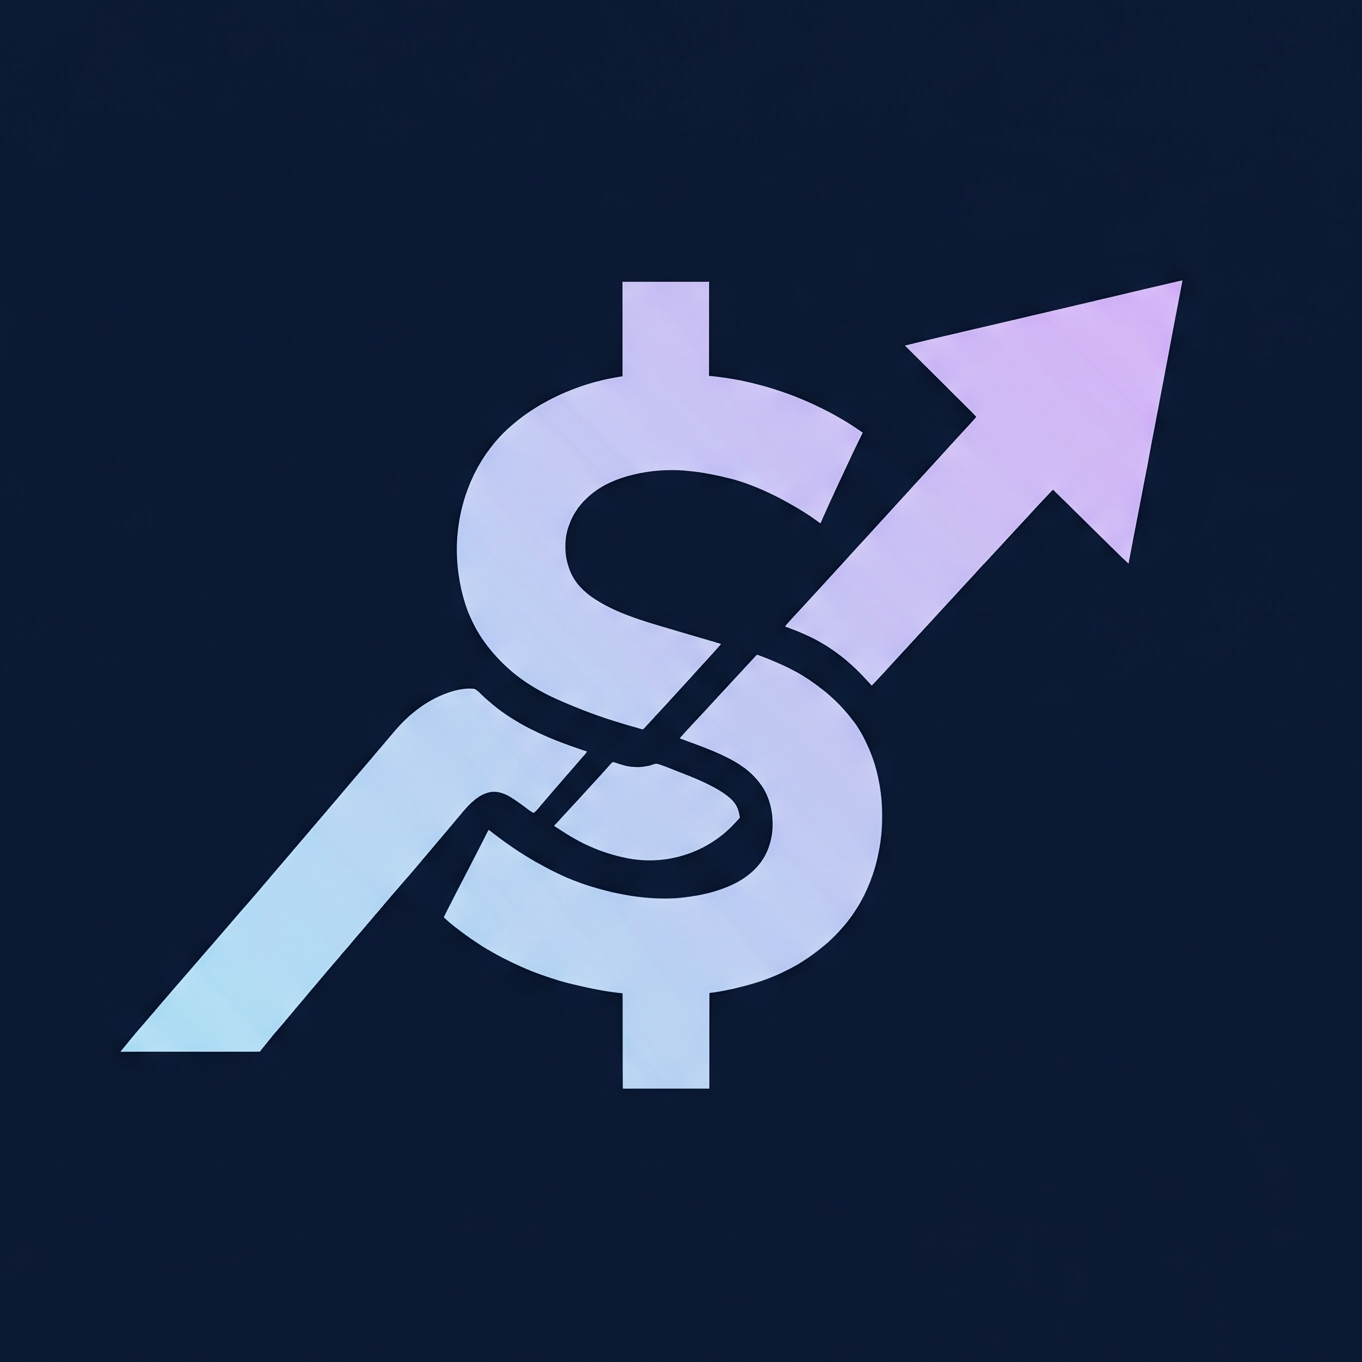
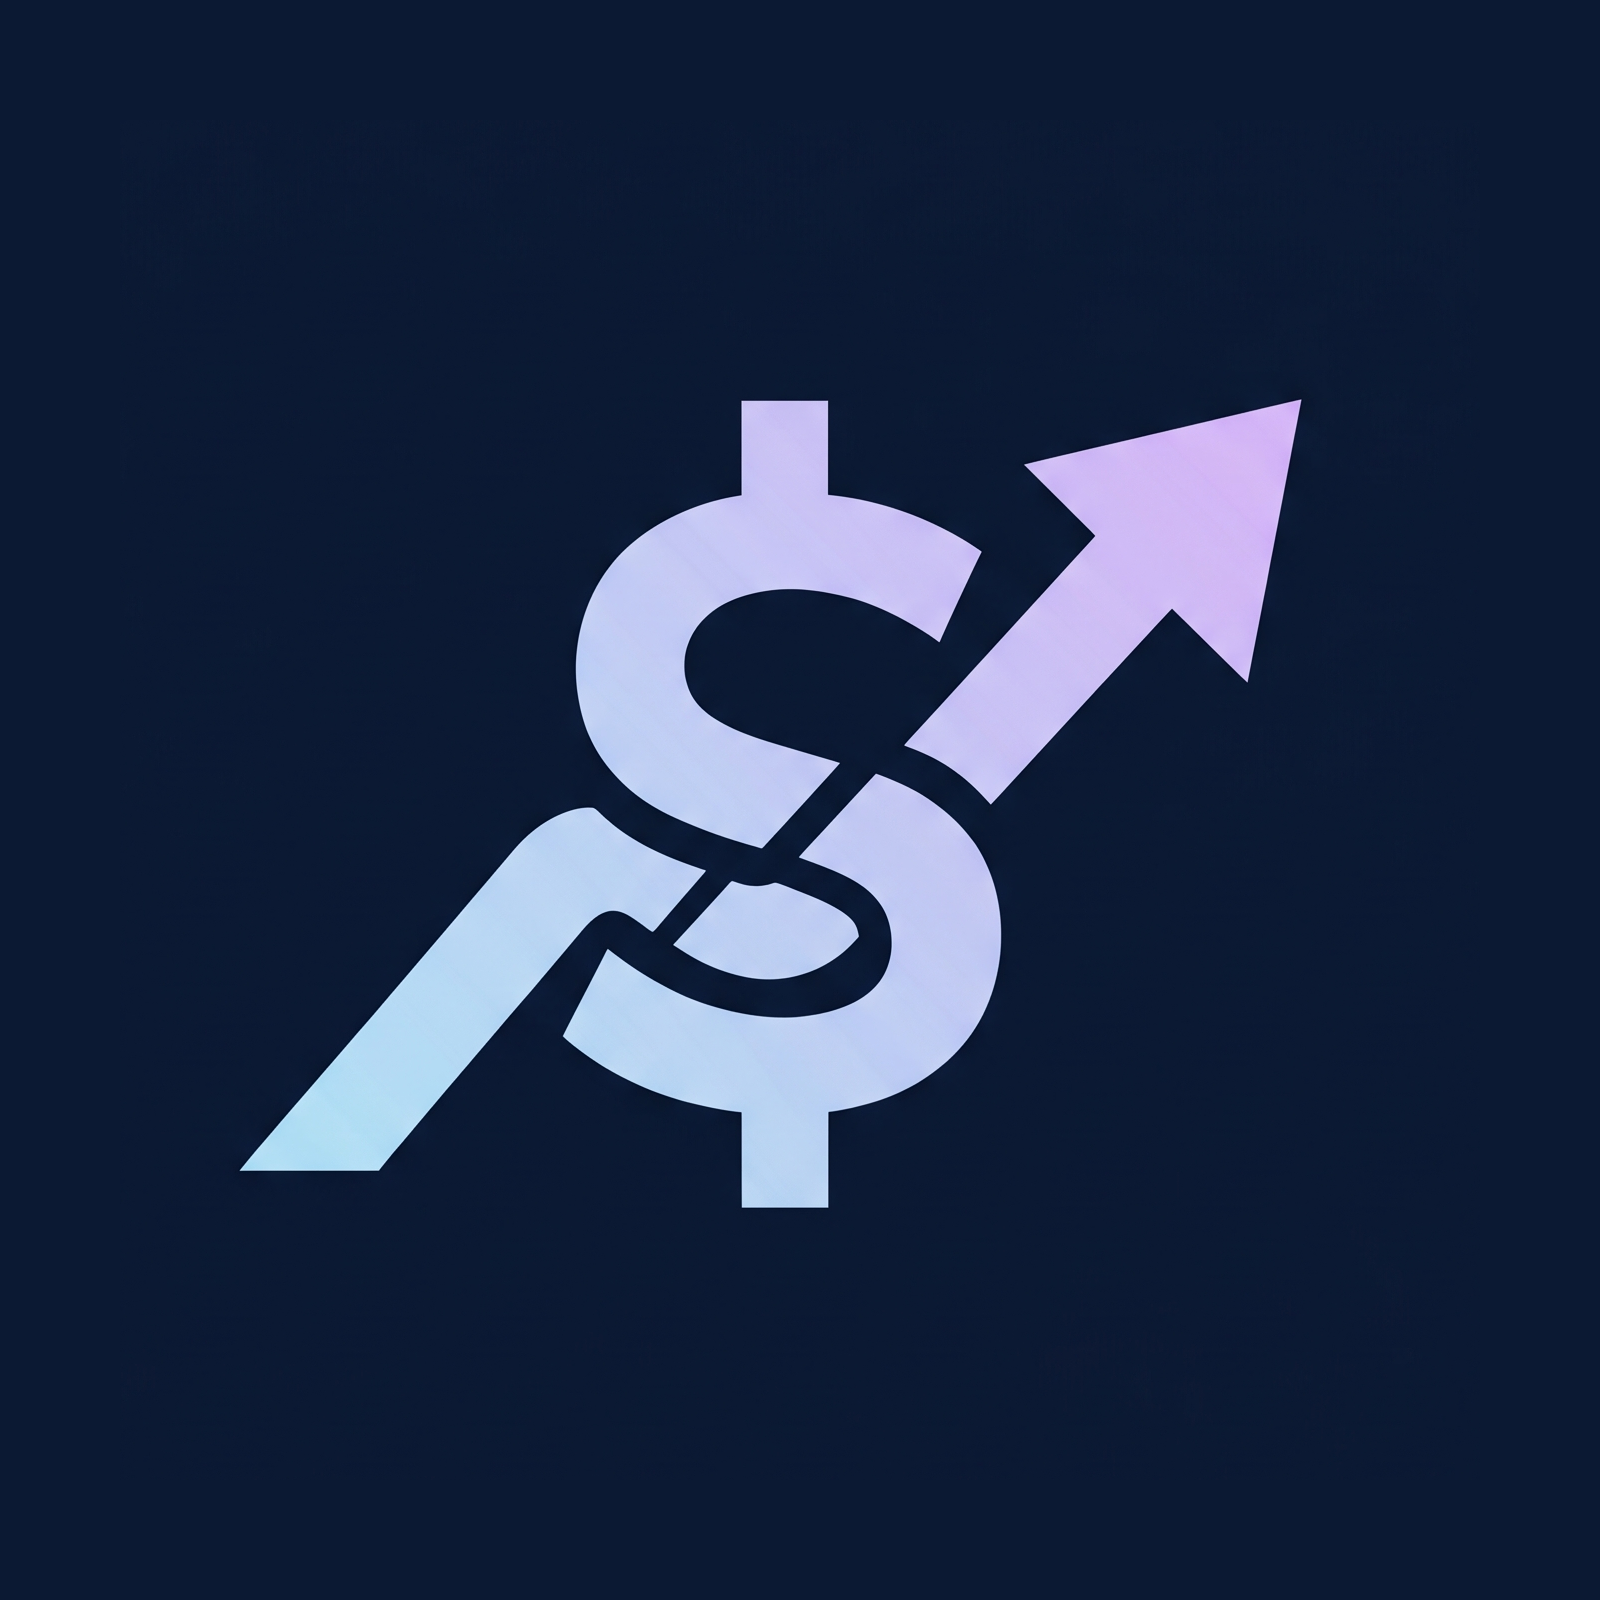
v1.2

Changed region(s): [[0.0925, 0.185, 0.8634, 0.8018], [0.4317, 0.4317, 0.4934, 0.4626], [0.2467, 0.6784, 0.2775, 0.7093]]

diff --git a/lib/features/home/presentation/pages/home_page.dart b/lib/features/home/presentation/pages/home_page.dart
@@ -1,4 +1,5 @@
 import 'package:flutter/material.dart';
+import 'package:flutter/services.dart';
 import '../../../../core/constants/app_colors.dart';
 import '../../../../core/services/language_service.dart';
 import '../../../../core/services/storage_service.dart';
@@ -93,6 +94,182 @@ class _HomePageState extends State<HomePage> {
     );
   }
 
+  void _showNotePreview(DateTime date, WorkDay? existing) {
+    // Haptik geri bildirim
+    HapticFeedback.mediumImpact();
+
+    final hasEntry = existing != null;
+    final hasNote = hasEntry && existing.note.trim().isNotEmpty;
+
+    // Tarih formatla
+    final dayNames = widget.lang.currentLang == 'tr'
+        ? [
+            'Pazartesi', 'Salı', 'Çarşamba', 'Perşembe',
+            'Cuma', 'Cumartesi', 'Pazar'
+          ]
+        : [
+            'Monday', 'Tuesday', 'Wednesday', 'Thursday',
+            'Friday', 'Saturday', 'Sunday'
+          ];
+    final dayName = dayNames[date.weekday - 1];
+    final monthName = widget.lang.monthName(date.month);
+    final formattedDate = '${date.day} $monthName, $dayName';
+
+    showDialog(
+      context: context,
+      barrierColor: Colors.black54,
+      builder: (ctx) => Dialog(
+        backgroundColor: Colors.transparent,
+        child: Container(
+          constraints: const BoxConstraints(maxWidth: 320),
+          decoration: BoxDecoration(
+            color: AppColors.card,
+            borderRadius: BorderRadius.circular(20),
+            border: Border.all(
+              color: hasNote
+                  ? AppColors.accentLight.withValues(alpha: 0.3)
+                  : AppColors.textHint.withValues(alpha: 0.3),
+              width: 1,
+            ),
+            boxShadow: [
+              BoxShadow(
+                color: Colors.black.withValues(alpha: 0.4),
+                blurRadius: 24,
+                offset: const Offset(0, 8),
+              ),
+            ],
+          ),
+          child: Column(
+            mainAxisSize: MainAxisSize.min,
+            children: [
+              // Üst başlık
+              Container(
+                width: double.infinity,
+                padding: const EdgeInsets.fromLTRB(20, 16, 20, 12),
+                decoration: BoxDecoration(
+                  color: AppColors.surface,
+                  borderRadius: const BorderRadius.vertical(
+                    top: Radius.circular(20),
+                  ),
+                ),
+                child: Row(
+                  children: [
+                    Icon(
+                      hasNote
+                          ? Icons.sticky_note_2_rounded
+                          : Icons.event_note_rounded,
+                      color: hasNote
+                          ? AppColors.accentLight
+                          : AppColors.textHint,
+                      size: 20,
+                    ),
+                    const SizedBox(width: 10),
+                    Expanded(
+                      child: Text(
+                        formattedDate,
+                        style: const TextStyle(
+                          fontSize: 14,
+                          fontWeight: FontWeight.w600,
+                          color: AppColors.textSecondary,
+                        ),
+                      ),
+                    ),
+                    // Kapatma butonu
+                    GestureDetector(
+                      onTap: () => Navigator.pop(ctx),
+                      child: Container(
+                        width: 28,
+                        height: 28,
+                        decoration: BoxDecoration(
+                          color: AppColors.card,
+                          borderRadius: BorderRadius.circular(8),
+                        ),
+                        child: const Icon(
+                          Icons.close_rounded,
+                          color: AppColors.textHint,
+                          size: 16,
+                        ),
+                      ),
+                    ),
+                  ],
+                ),
+              ),
+              // İçerik
+              Padding(
+                padding: const EdgeInsets.fromLTRB(20, 16, 20, 20),
+                child: hasNote
+                    ? Column(
+                        crossAxisAlignment: CrossAxisAlignment.start,
+                        children: [
+                          // Konum bilgisi
+                          Container(
+                            padding: const EdgeInsets.symmetric(
+                              horizontal: 10,
+                              vertical: 5,
+                            ),
+                            decoration: BoxDecoration(
+                              color: (existing.isCityCenter
+                                      ? AppColors.cityInner
+                                      : AppColors.cityOuter)
+                                  .withValues(alpha: 0.15),
+                              borderRadius: BorderRadius.circular(8),
+                            ),
+                            child: Text(
+                              existing.isCityCenter
+                                  ? widget.lang.tr('city_inner')
+                                  : widget.lang.tr('city_outer'),
+                              style: TextStyle(
+                                fontSize: 12,
+                                fontWeight: FontWeight.w600,
+                                color: existing.isCityCenter
+                                    ? AppColors.cityInner
+                                    : AppColors.cityOuter,
+                              ),
+                            ),
+                          ),
+                          const SizedBox(height: 12),
+                          // Not metni
+                          Text(
+                            existing.note.trim(),
+                            style: const TextStyle(
+                              fontSize: 15,
+                              height: 1.5,
+                              color: AppColors.textPrimary,
+                            ),
+                          ),
+                        ],
+                      )
+                    : Center(
+                        child: Column(
+                          children: [
+                            Icon(
+                              hasEntry
+                                  ? Icons.note_outlined
+                                  : Icons.event_busy_rounded,
+                              color: AppColors.textHint,
+                              size: 36,
+                            ),
+                            const SizedBox(height: 8),
+                            Text(
+                              hasEntry
+                                  ? widget.lang.tr('no_note')
+                                  : widget.lang.tr('no_entry'),
+                              style: const TextStyle(
+                                fontSize: 14,
+                                color: AppColors.textHint,
+                              ),
+                            ),
+                          ],
+                        ),
+                      ),
+              ),
+            ],
+          ),
+        ),
+      ),
+    );
+  }
+
   void _openSettings() async {
     await Navigator.of(context).push(
       MaterialPageRoute(
@@ -117,7 +294,7 @@ class _HomePageState extends State<HomePage> {
           // Ay navigasyonu — ortalanmış
           _buildMonthNavigator(),
           const SizedBox(height: 12),
-          // Takvim + Özet
+          // Takvim + Özet — sola/sağa kaydırarak ay değiştirme
           Expanded(
             child: _isLoading
                 ? const Center(
@@ -125,24 +302,38 @@ class _HomePageState extends State<HomePage> {
                       color: AppColors.accentLight,
                     ),
                   )
-                : SingleChildScrollView(
-                    child: Column(
-                      children: [
-                        CalendarGrid(
-                          year: _currentYear,
-                          month: _currentMonth,
-                          monthlyData: _monthlyData,
-                          lang: widget.lang,
-                          onDayTapped: _openDayEntry,
-                        ),
-                        const SizedBox(height: 8),
-                        // Özet kartı
-                        SummaryCard(
-                          totalDays: _monthlyData.totalDays,
-                          totalEarnings: _monthlyData.totalEarnings,
-                          lang: widget.lang,
-                        ),
-                      ],
+                : GestureDetector(
+                    onHorizontalDragEnd: (details) {
+                      const threshold = 300.0; // px/s hız eşiği
+                      final velocity =
+                          details.primaryVelocity ?? 0;
+                      if (velocity > threshold) {
+                        _previousMonth(); // sağa kaydır → önceki ay
+                      } else if (velocity < -threshold) {
+                        _nextMonth(); // sola kaydır → sonraki ay
+                      }
+                    },
+                    behavior: HitTestBehavior.opaque,
+                    child: SingleChildScrollView(
+                      child: Column(
+                        children: [
+                          CalendarGrid(
+                            year: _currentYear,
+                            month: _currentMonth,
+                            monthlyData: _monthlyData,
+                            lang: widget.lang,
+                            onDayTapped: _openDayEntry,
+                            onDayLongPressed: _showNotePreview,
+                          ),
+                          const SizedBox(height: 8),
+                          // Özet kartı
+                          SummaryCard(
+                            totalDays: _monthlyData.totalDays,
+                            totalEarnings: _monthlyData.totalEarnings,
+                            lang: widget.lang,
+                          ),
+                        ],
+                      ),
                     ),
                   ),
           ),

diff --git a/lib/features/home/presentation/widgets/calendar_grid.dart b/lib/features/home/presentation/widgets/calendar_grid.dart
@@ -12,6 +12,7 @@ class CalendarGrid extends StatelessWidget {
   final MonthlyData monthlyData;
   final LanguageService lang;
   final void Function(DateTime date, WorkDay? existing) onDayTapped;
+  final void Function(DateTime date, WorkDay? existing) onDayLongPressed;
 
   const CalendarGrid({
     super.key,
@@ -20,6 +21,7 @@ class CalendarGrid extends StatelessWidget {
     required this.monthlyData,
     required this.lang,
     required this.onDayTapped,
+    required this.onDayLongPressed,
   });
 
   @override
@@ -85,6 +87,7 @@ class CalendarGrid extends StatelessWidget {
           return Expanded(
             child: GestureDetector(
               onTap: () => onDayTapped(date, workDay),
+              onLongPress: () => onDayLongPressed(date, workDay),
               child: _DayCell(
                 day: dayIndex,
                 workDay: workDay,

diff --git a/lib/core/constants/app_config.dart b/lib/core/constants/app_config.dart
@@ -2,6 +2,6 @@
 class AppConfig {
   AppConfig._();
 
-  static const String version = '1.0.0';
+  static const String version = '1.2.0';
   static const String developerName = 'lNyctophilia';
 }

diff --git a/lib/core/constants/app_strings.dart b/lib/core/constants/app_strings.dart
@@ -86,6 +86,8 @@ class AppStrings {
     'general': {'tr': 'Genel', 'en': 'General'},
     'data': {'tr': 'Veri', 'en': 'Data'},
     'saved': {'tr': 'Kaydedildi', 'en': 'Saved'},
+    'no_note': {'tr': 'Not yok', 'en': 'No note'},
+    'no_entry': {'tr': 'Kayıt yok', 'en': 'No entry'},
   };
 
   static const List<String> monthKeys = [